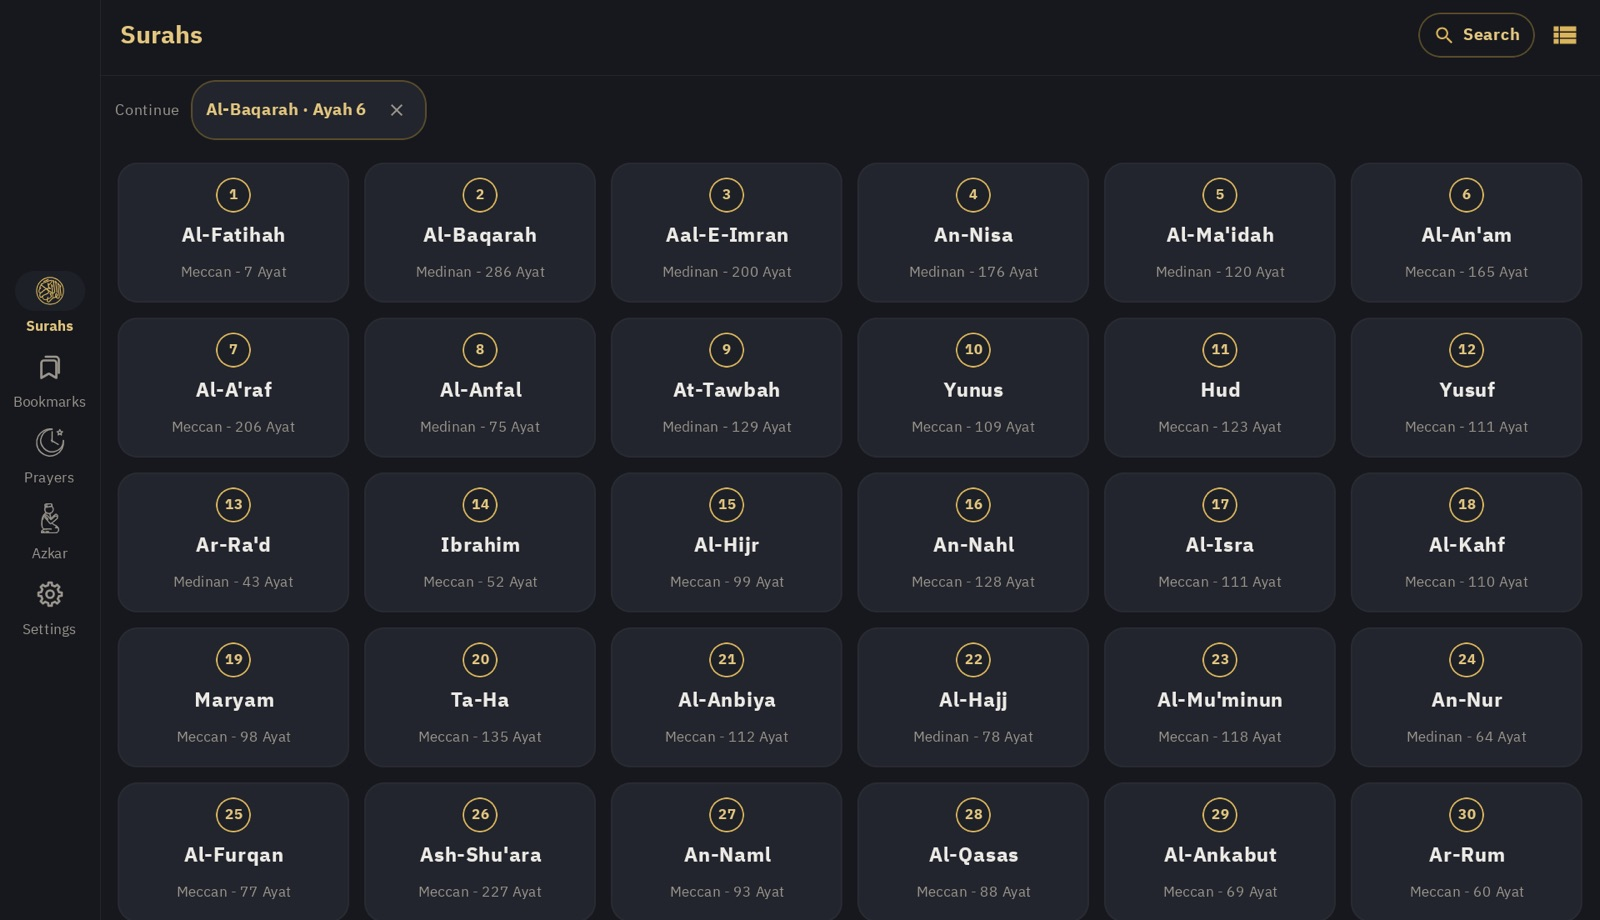
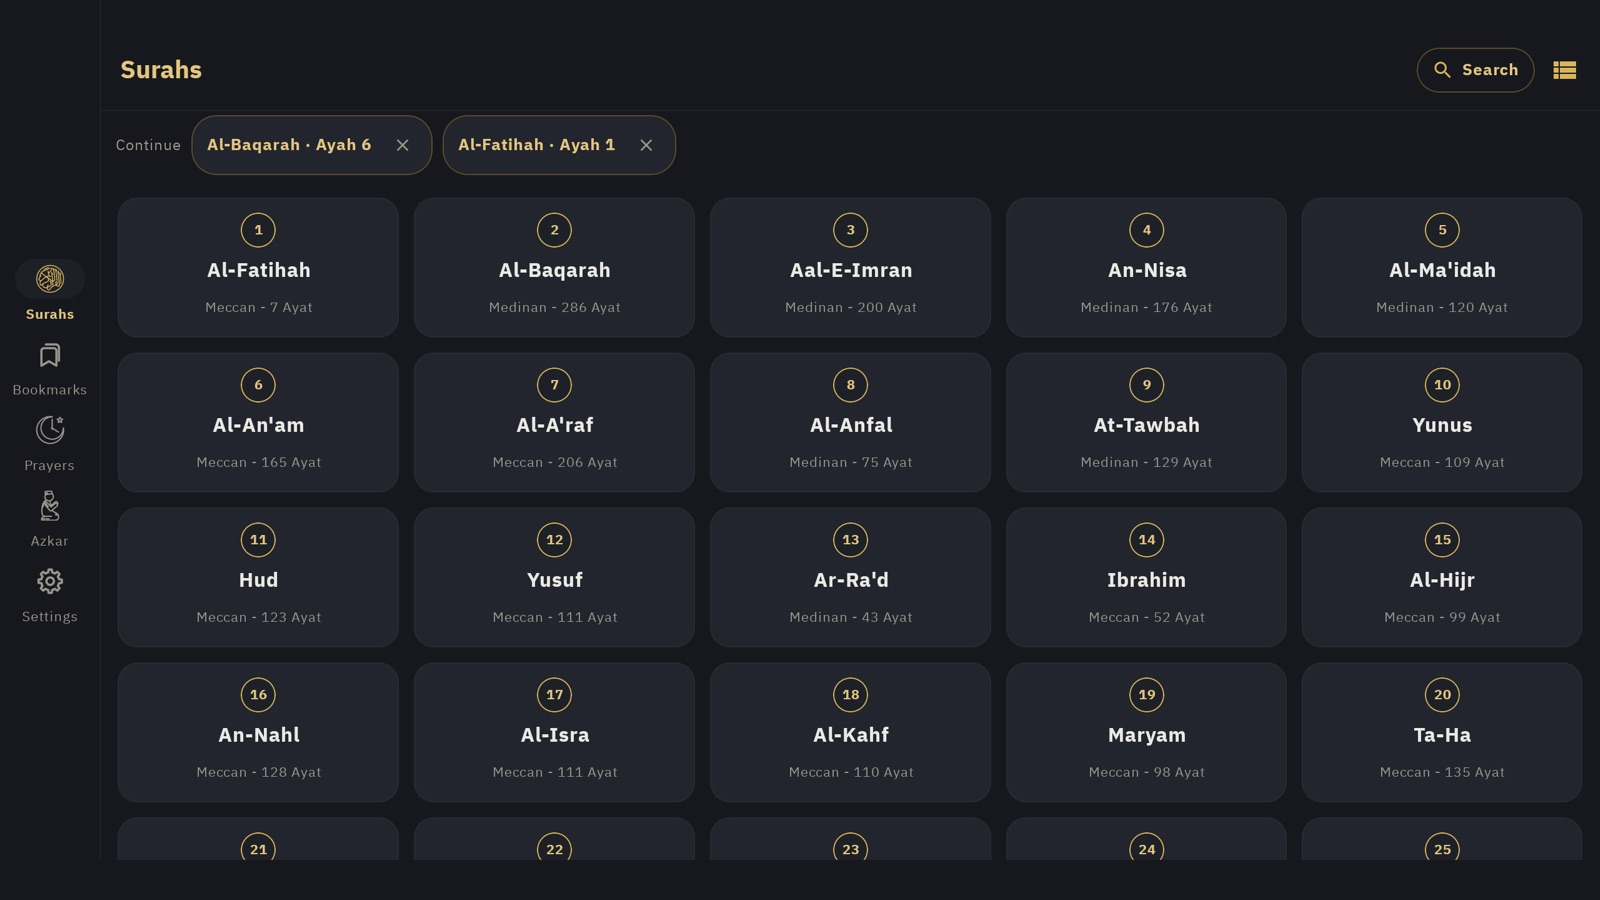
deploy: MoaazElneshawy/QuranWords@de79a3117023789b9758ab40acb1f614b7aee03f

diff --git a/quran-meanings/index.html b/quran-meanings/index.html
@@ -173,12 +173,12 @@
       </div>
       <div class="tablet-shots">
         <figure>
-          <div class="tablet"><img src="assets/img/screens/ar/tablet-spread.jpg" alt="صفحتان متقابلتان من المصحف على جهاز لوحي في الوضع الأفقي" width="1600" height="920" loading="lazy" decoding="async"></div>
+          <div class="tablet"><img src="assets/img/screens/ar/tablet-spread.jpg" alt="صفحتان متقابلتان من المصحف على جهاز لوحي في الوضع الأفقي" width="1600" height="900" loading="lazy" decoding="async"></div>
           <figcaption class="screen-caption">صفحتان متقابلتان كالمصحف المطبوع في الوضع الأفقي</figcaption>
         </figure>
         <figure>
-          <div class="tablet"><img src="assets/img/screens/ar/tablet-home.jpg" alt="قائمة السور على جهاز لوحي بستة أعمدة وشريط تنقّل جانبي" width="1600" height="920" loading="lazy" decoding="async"></div>
-          <figcaption class="screen-caption">قائمة السور بستة أعمدة وشريط تنقّل جانبي</figcaption>
+          <div class="tablet"><img src="assets/img/screens/ar/tablet-home.jpg" alt="قائمة السور على جهاز لوحي بخمسة أعمدة وشريط تنقّل جانبي" width="1600" height="900" loading="lazy" decoding="async"></div>
+          <figcaption class="screen-caption">قائمة السور بخمسة أعمدة وشريط تنقّل جانبي</figcaption>
         </figure>
       </div>
       <div class="features-grid adaptive-points">
@@ -195,7 +195,7 @@
         <div class="feature-card">
           <div class="f-icon"><svg viewBox="0 0 24 24" fill="none" stroke-width="2"><rect x="3" y="3" width="7" height="7" rx="1"/><rect x="14" y="3" width="7" height="7" rx="1"/><rect x="3" y="14" width="7" height="7" rx="1"/><rect x="14" y="14" width="7" height="7" rx="1"/></svg></div>
           <h3>شبكة تتّسع مع الشاشة</h3>
-          <p>تزداد أعمدة قائمة السور مع اتساع الشاشة: ثلاثة على الهاتف وستة على الجهاز اللوحي.</p>
+          <p>تزداد أعمدة قائمة السور مع اتساع الشاشة: ثلاثة على الهاتف وخمسة على الجهاز اللوحي.</p>
         </div>
         <div class="feature-card">
           <div class="f-icon"><svg viewBox="0 0 24 24" fill="none" stroke-width="2"><path d="M3 12a9 9 0 0 1 15-6.7L21 8M21 3v5h-5M21 12a9 9 0 0 1-15 6.7L3 16M3 21v-5h5"/></svg></div>

diff --git a/quran-meanings/en/index.html b/quran-meanings/en/index.html
@@ -173,12 +173,12 @@
       </div>
       <div class="tablet-shots">
         <figure>
-          <div class="tablet"><img src="../assets/img/screens/en/tablet-spread.jpg" alt="Two facing mushaf pages on a tablet in landscape" width="1600" height="920" loading="lazy" decoding="async"></div>
+          <div class="tablet"><img src="../assets/img/screens/en/tablet-spread.jpg" alt="Two facing mushaf pages on a tablet in landscape" width="1600" height="900" loading="lazy" decoding="async"></div>
           <figcaption class="screen-caption">Two facing pages, like a printed mushaf, in landscape</figcaption>
         </figure>
         <figure>
-          <div class="tablet"><img src="../assets/img/screens/en/tablet-home.jpg" alt="The surah list on a tablet with six columns and a side navigation rail" width="1600" height="920" loading="lazy" decoding="async"></div>
-          <figcaption class="screen-caption">The surah list in six columns with a side navigation rail</figcaption>
+          <div class="tablet"><img src="../assets/img/screens/en/tablet-home.jpg" alt="The surah list on a tablet with five columns and a side navigation rail" width="1600" height="900" loading="lazy" decoding="async"></div>
+          <figcaption class="screen-caption">The surah list in five columns with a side navigation rail</figcaption>
         </figure>
       </div>
       <div class="features-grid adaptive-points">
@@ -195,7 +195,7 @@
         <div class="feature-card">
           <div class="f-icon"><svg viewBox="0 0 24 24" fill="none" stroke-width="2"><rect x="3" y="3" width="7" height="7" rx="1"/><rect x="14" y="3" width="7" height="7" rx="1"/><rect x="3" y="14" width="7" height="7" rx="1"/><rect x="14" y="14" width="7" height="7" rx="1"/></svg></div>
           <h3>A grid that grows</h3>
-          <p>The surah list adds columns as the screen widens: three on a phone, six on a tablet.</p>
+          <p>The surah list adds columns as the screen widens: three on a phone, five on a tablet.</p>
         </div>
         <div class="feature-card">
           <div class="f-icon"><svg viewBox="0 0 24 24" fill="none" stroke-width="2"><path d="M3 12a9 9 0 0 1 15-6.7L21 8M21 3v5h-5M21 12a9 9 0 0 1-15 6.7L3 16M3 21v-5h5"/></svg></div>
